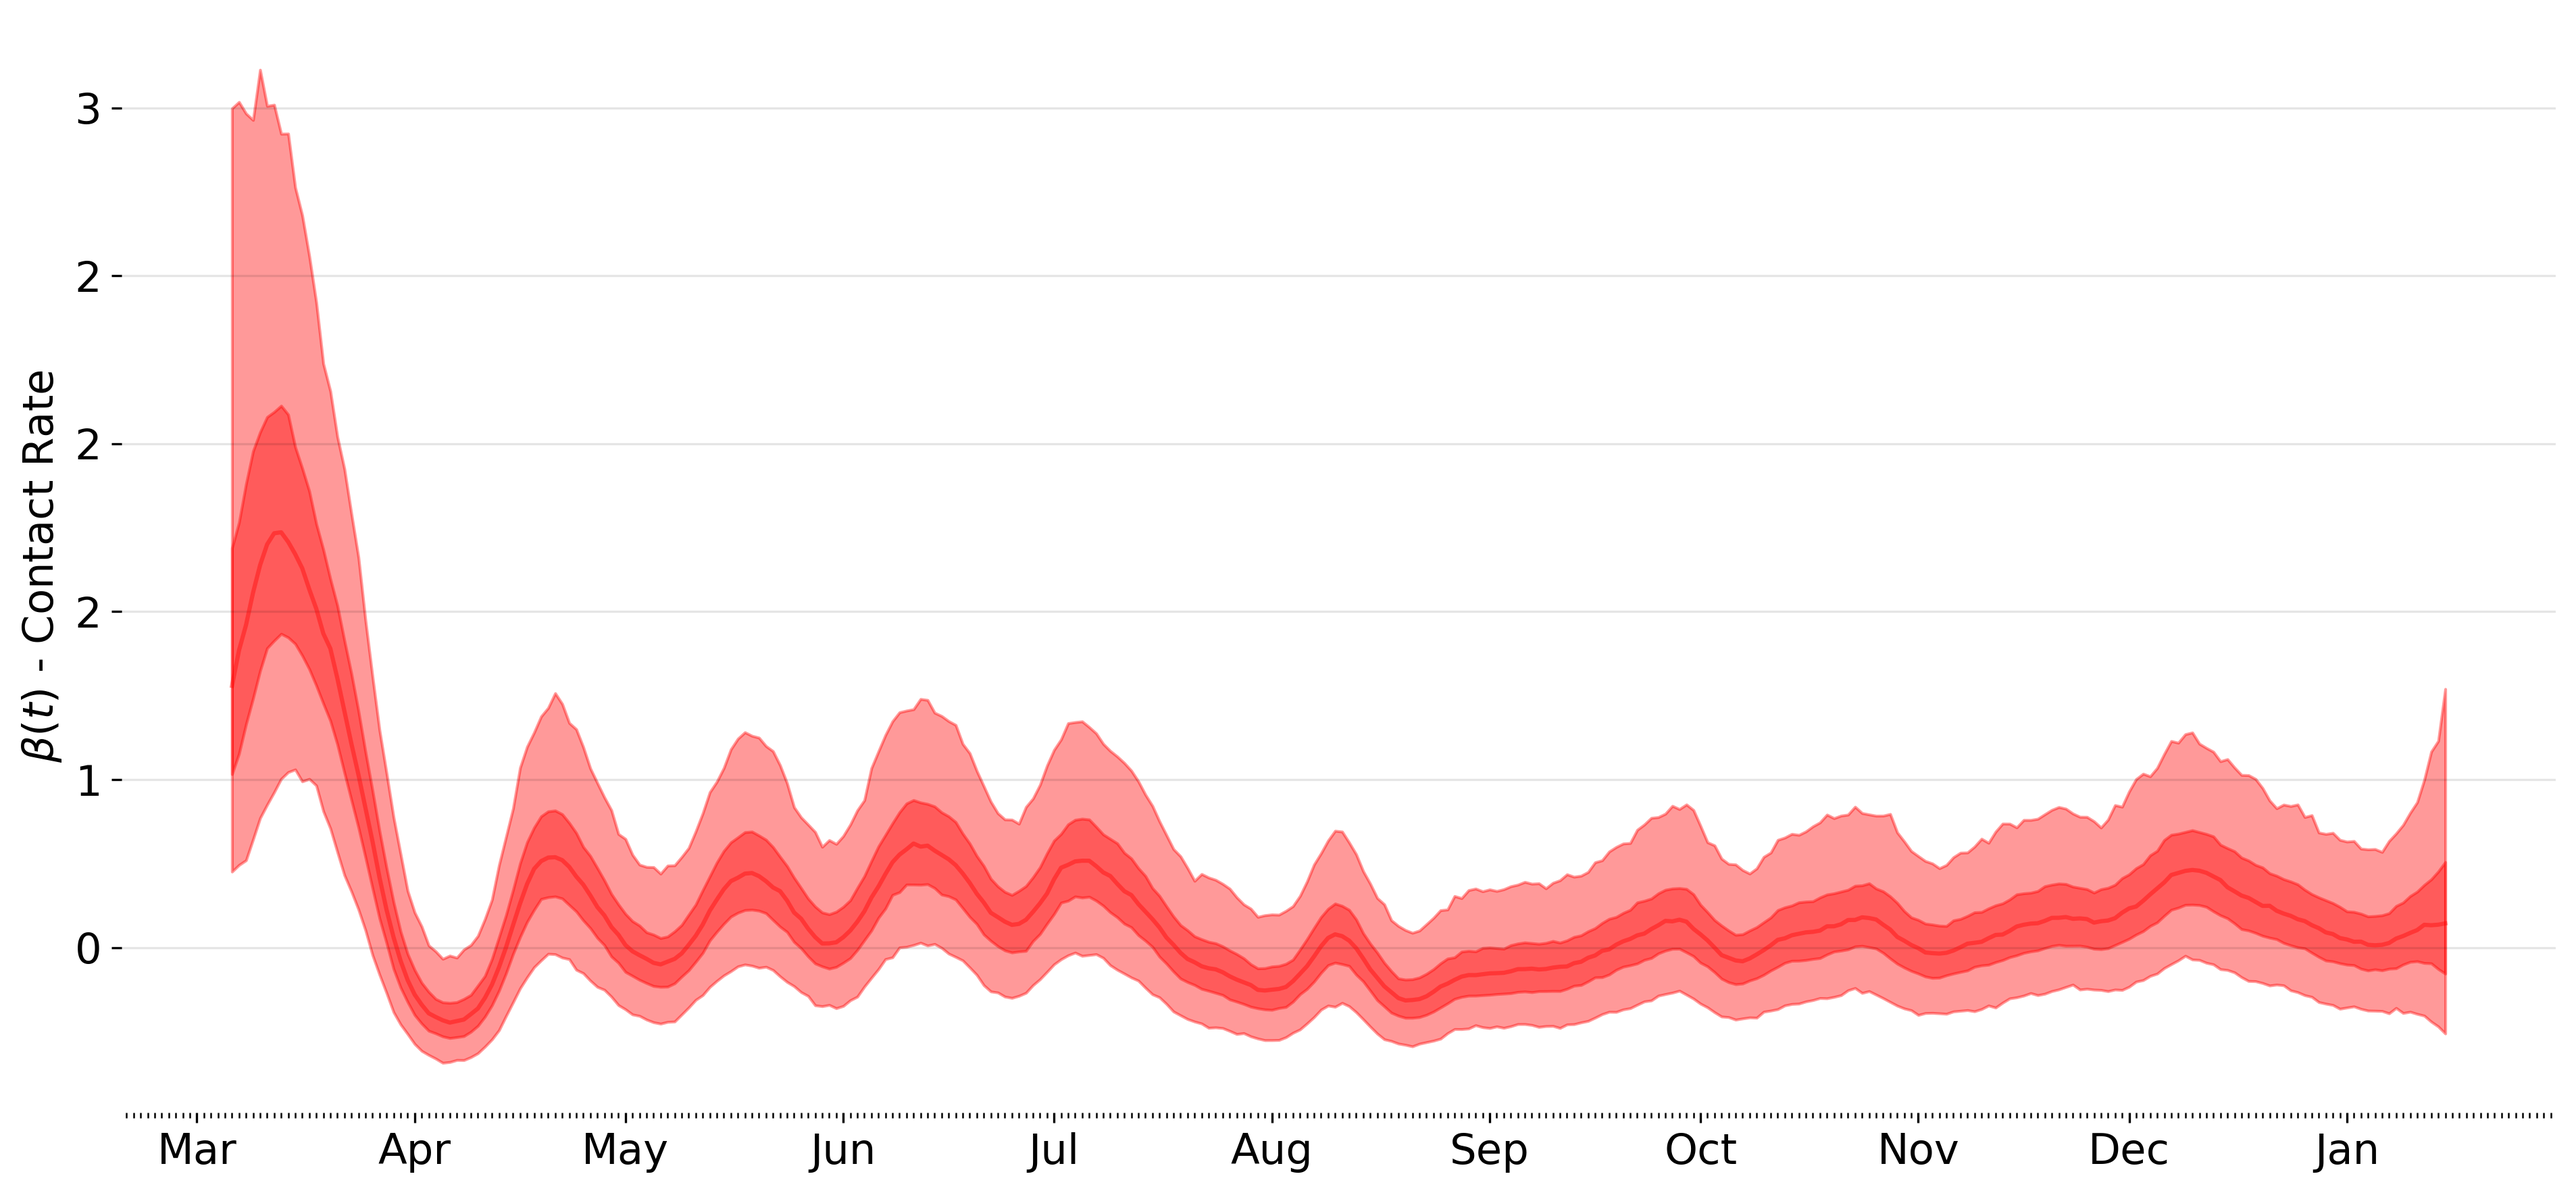
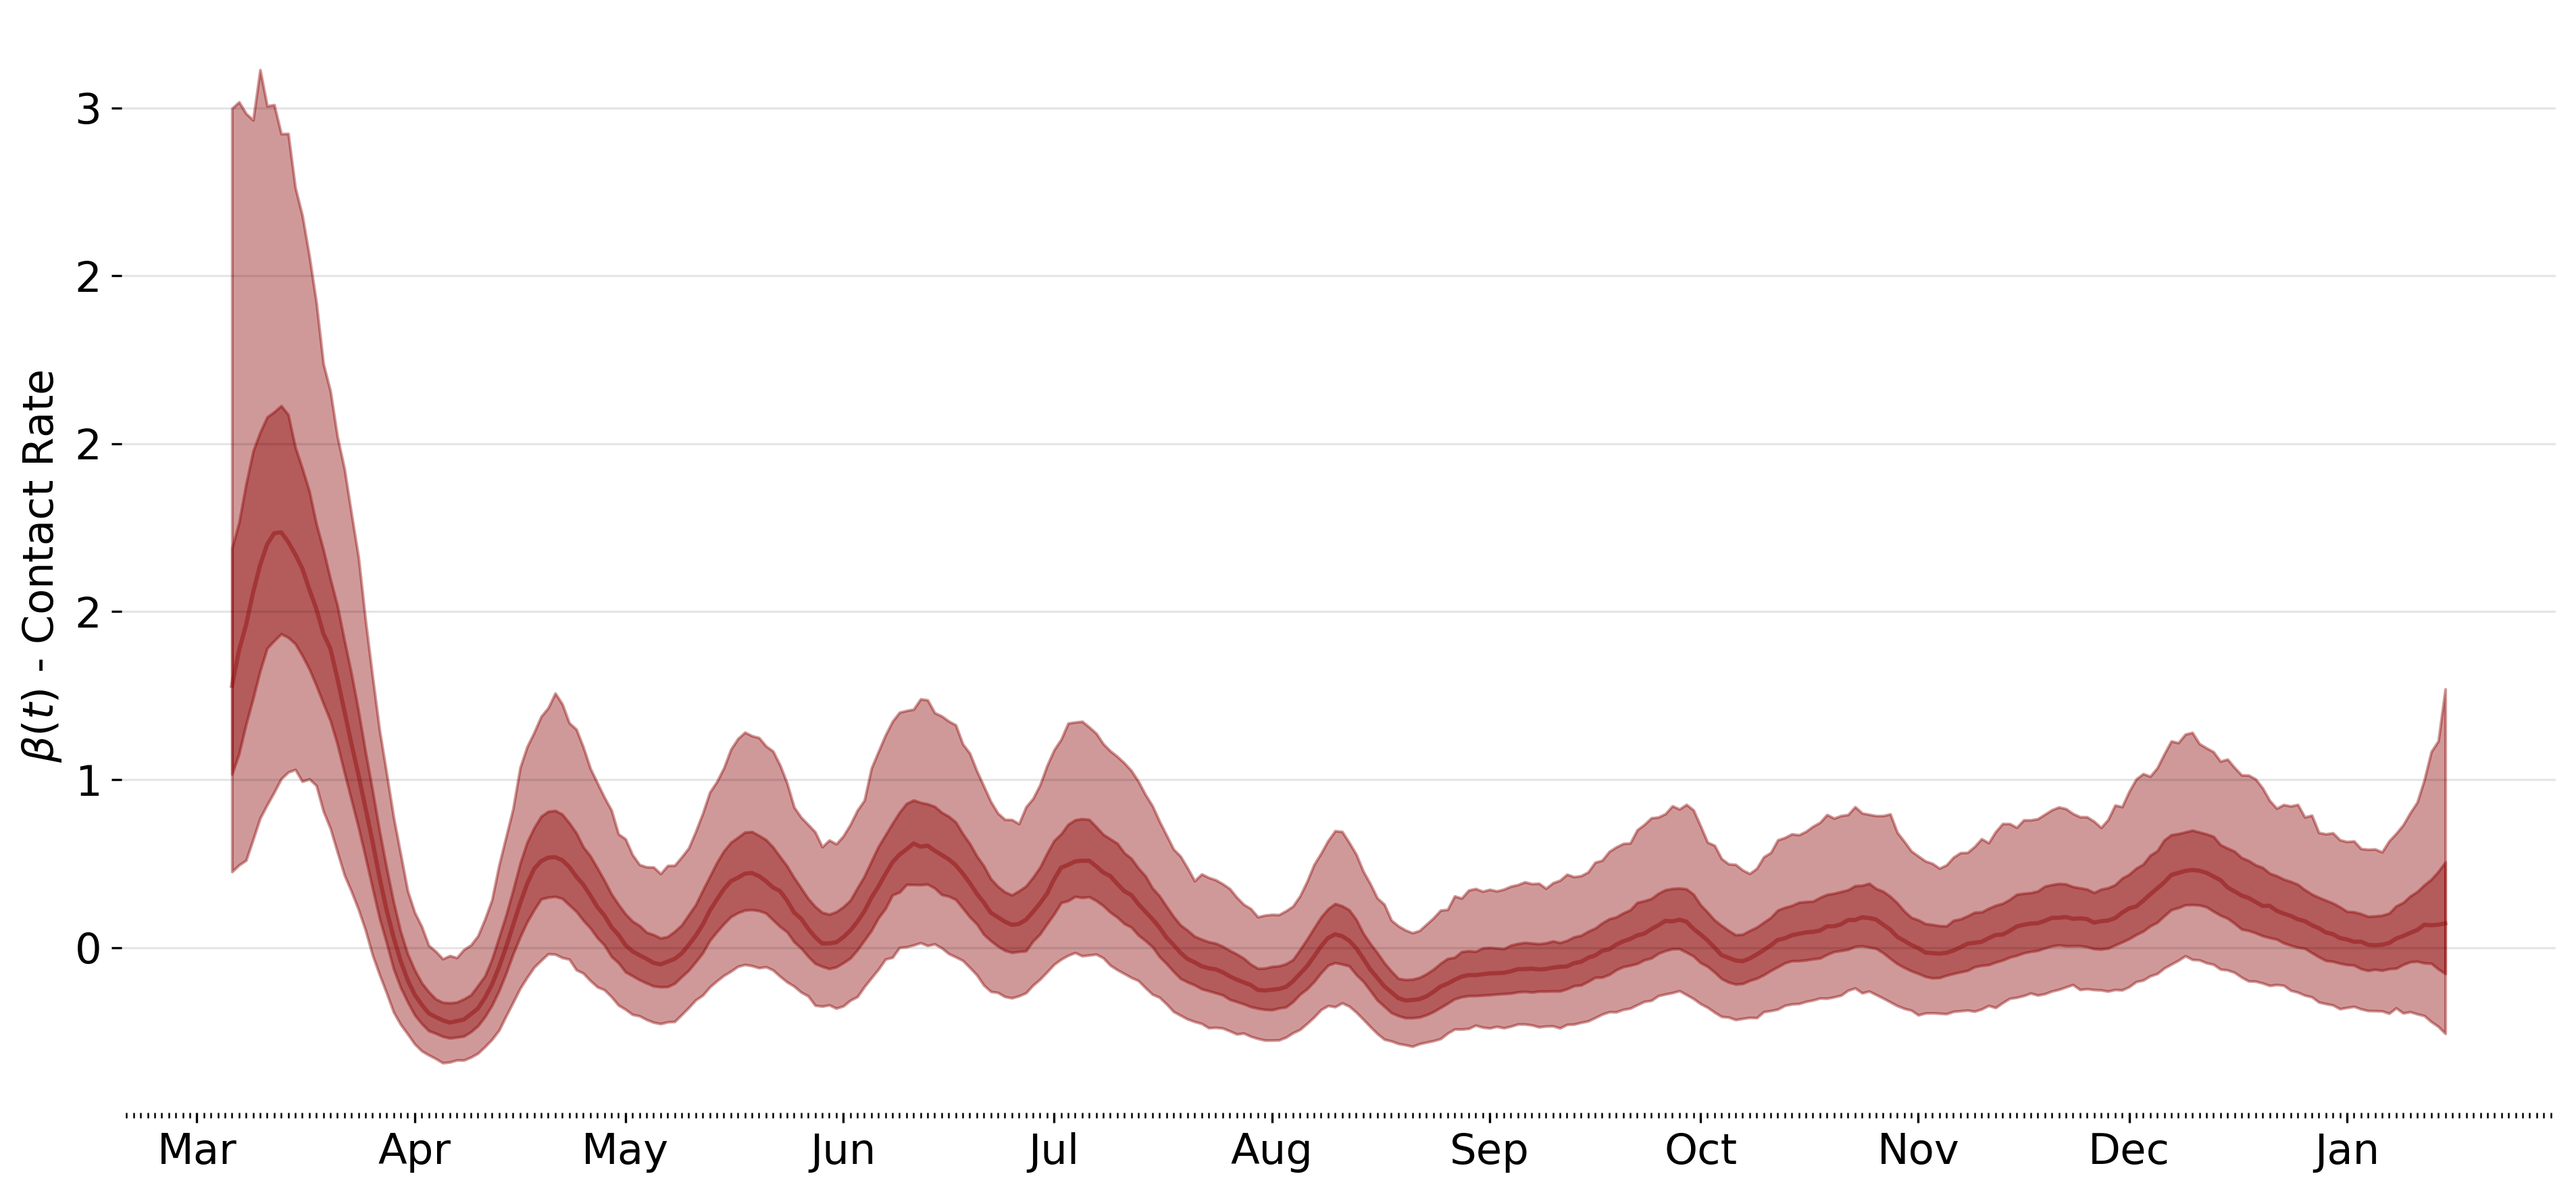
adding time variable contact rate

Changed region(s): [[0.0624, 0.0623, 0.9675, 0.9032]]

diff --git a/plot_parameters_figures.py b/plot_parameters_figures.py
@@ -64,9 +64,9 @@ beta_df = create_df_response(beta, beta.shape[-1], date_init ='2020-03-06',  for
 
 
 fig, ax = plt.subplots(1, 1, figsize=(15.5, 7))
-ax.plot(beta_df.index.values, beta_df["median"], color='red', alpha=0.4, label='Median - Nowcast')
-ax.fill_between(beta_df.index.values, beta_df["low_975"], beta_df["high_975"], color='red', alpha=0.4, label='95 CI - Nowcast')
-ax.fill_between(beta_df.index.values, beta_df["low_75"], beta_df["high_75"], color='red', alpha=0.4, label='95 CI - Nowcast')
+ax.plot(beta_df.index.values, beta_df["median"], color='darkred', alpha=0.4, label='Median - Nowcast')
+ax.fill_between(beta_df.index.values, beta_df["low_975"], beta_df["high_975"], color='darkred', alpha=0.4, label='95 CI - Nowcast')
+ax.fill_between(beta_df.index.values, beta_df["low_75"], beta_df["high_75"], color='darkred', alpha=0.4, label='95 CI - Nowcast')
 
 (y1_l, y2_l) = ax.get_ylim()
 

diff --git a/README.md b/README.md
@@ -13,5 +13,5 @@ We present forecasts in 4 week-format daily cases and deaths horizon.
 ![Deaths Forecast](/figures/mcmc/deaths.png "Deaths Forecasts")
 
 ## Parameter Estimates
-1. Time variable contact rate $\beta(t)$
+1. Time variable contact rate $\beta (t)$
     ![Time Variable Contact Rate](/figures/mcmc/contact_rate.png "Contact rate")
